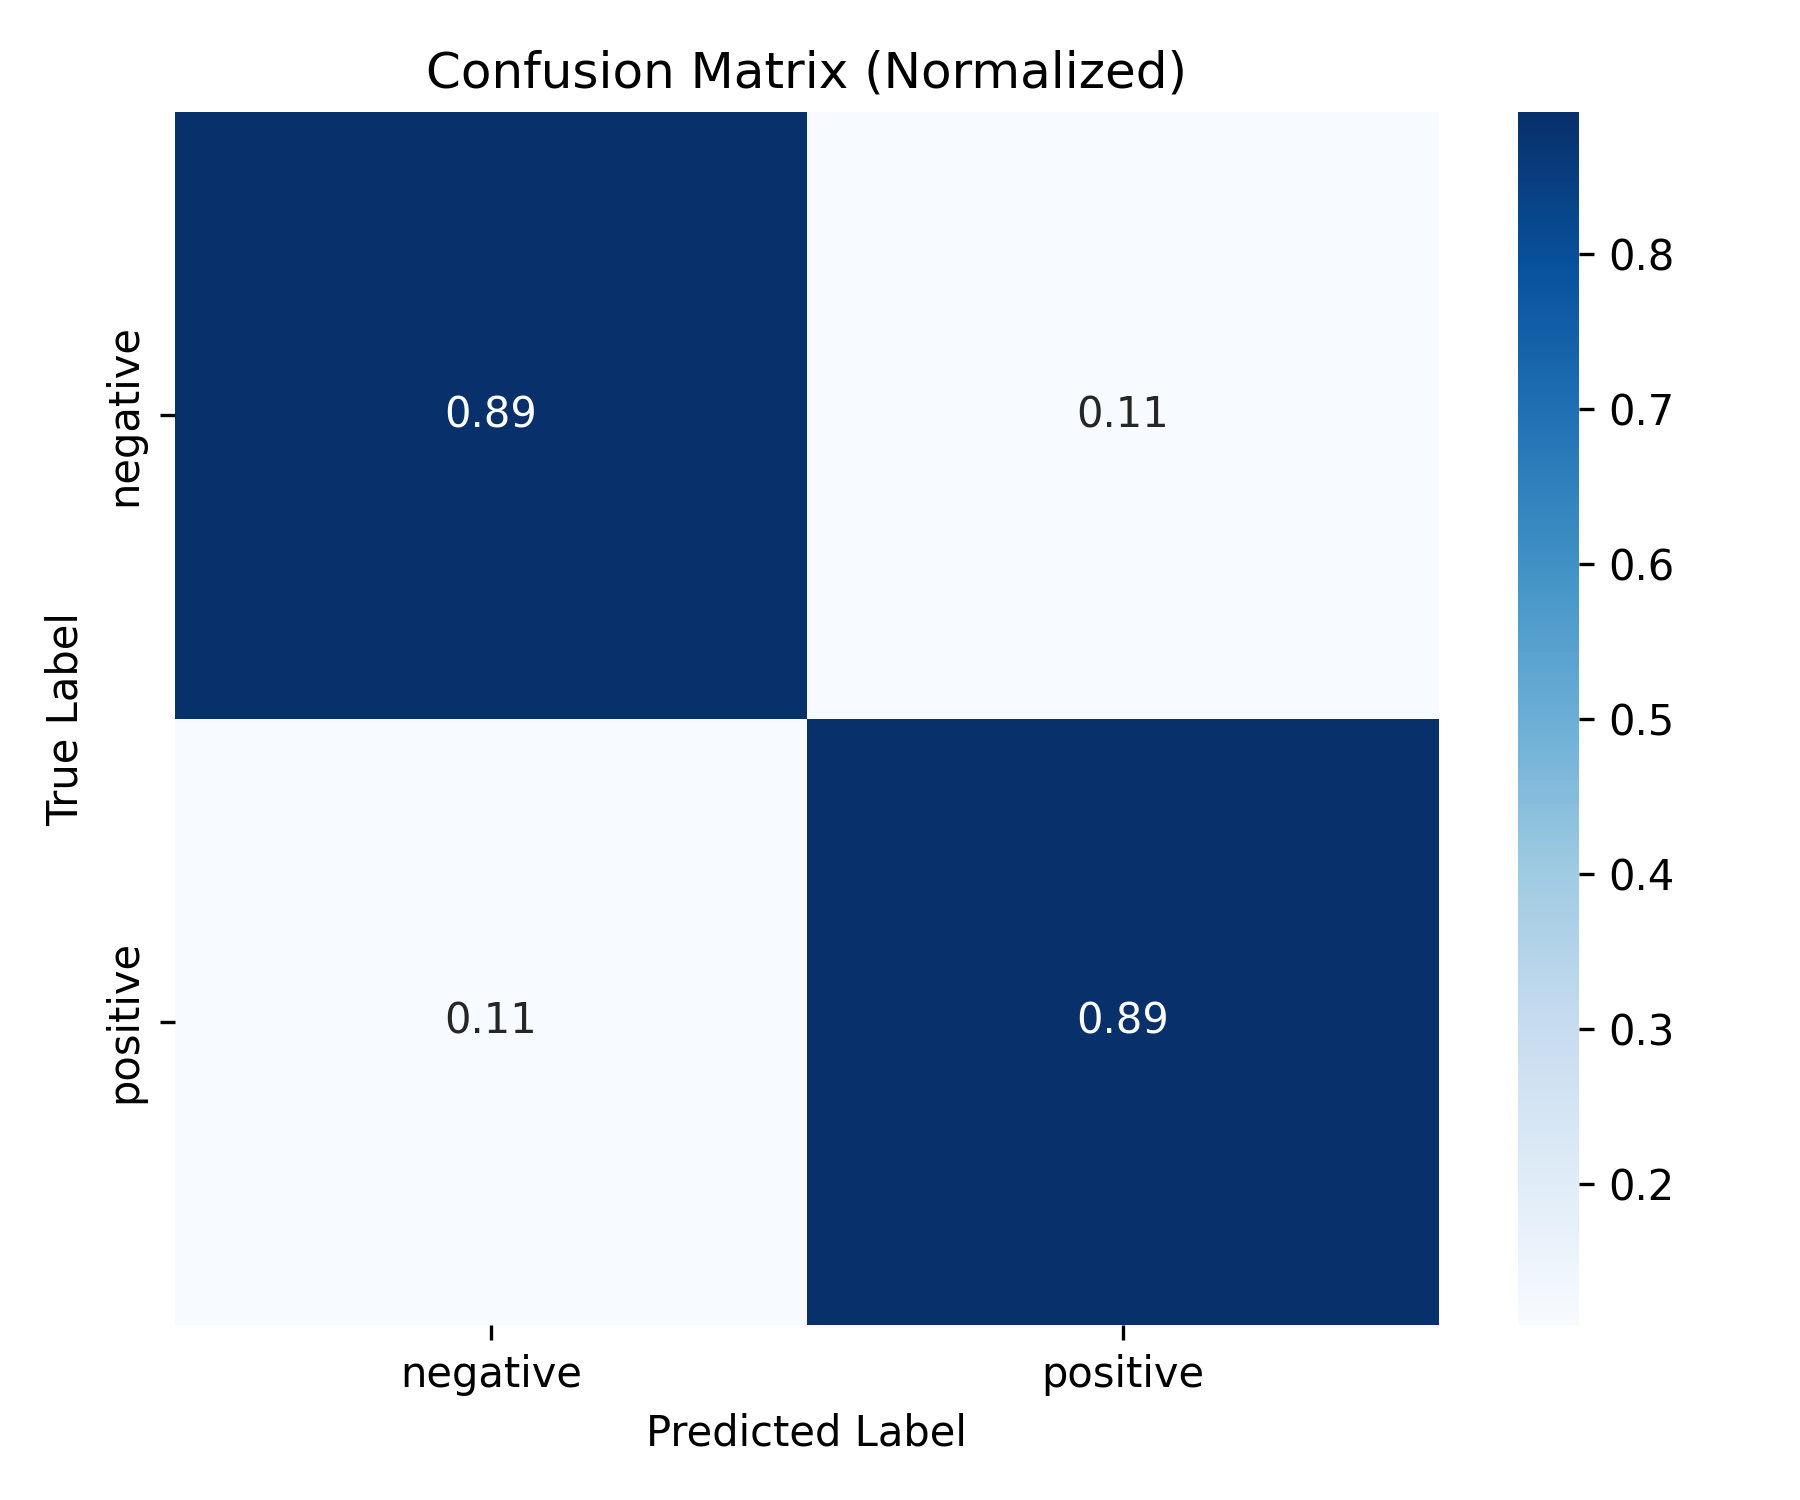
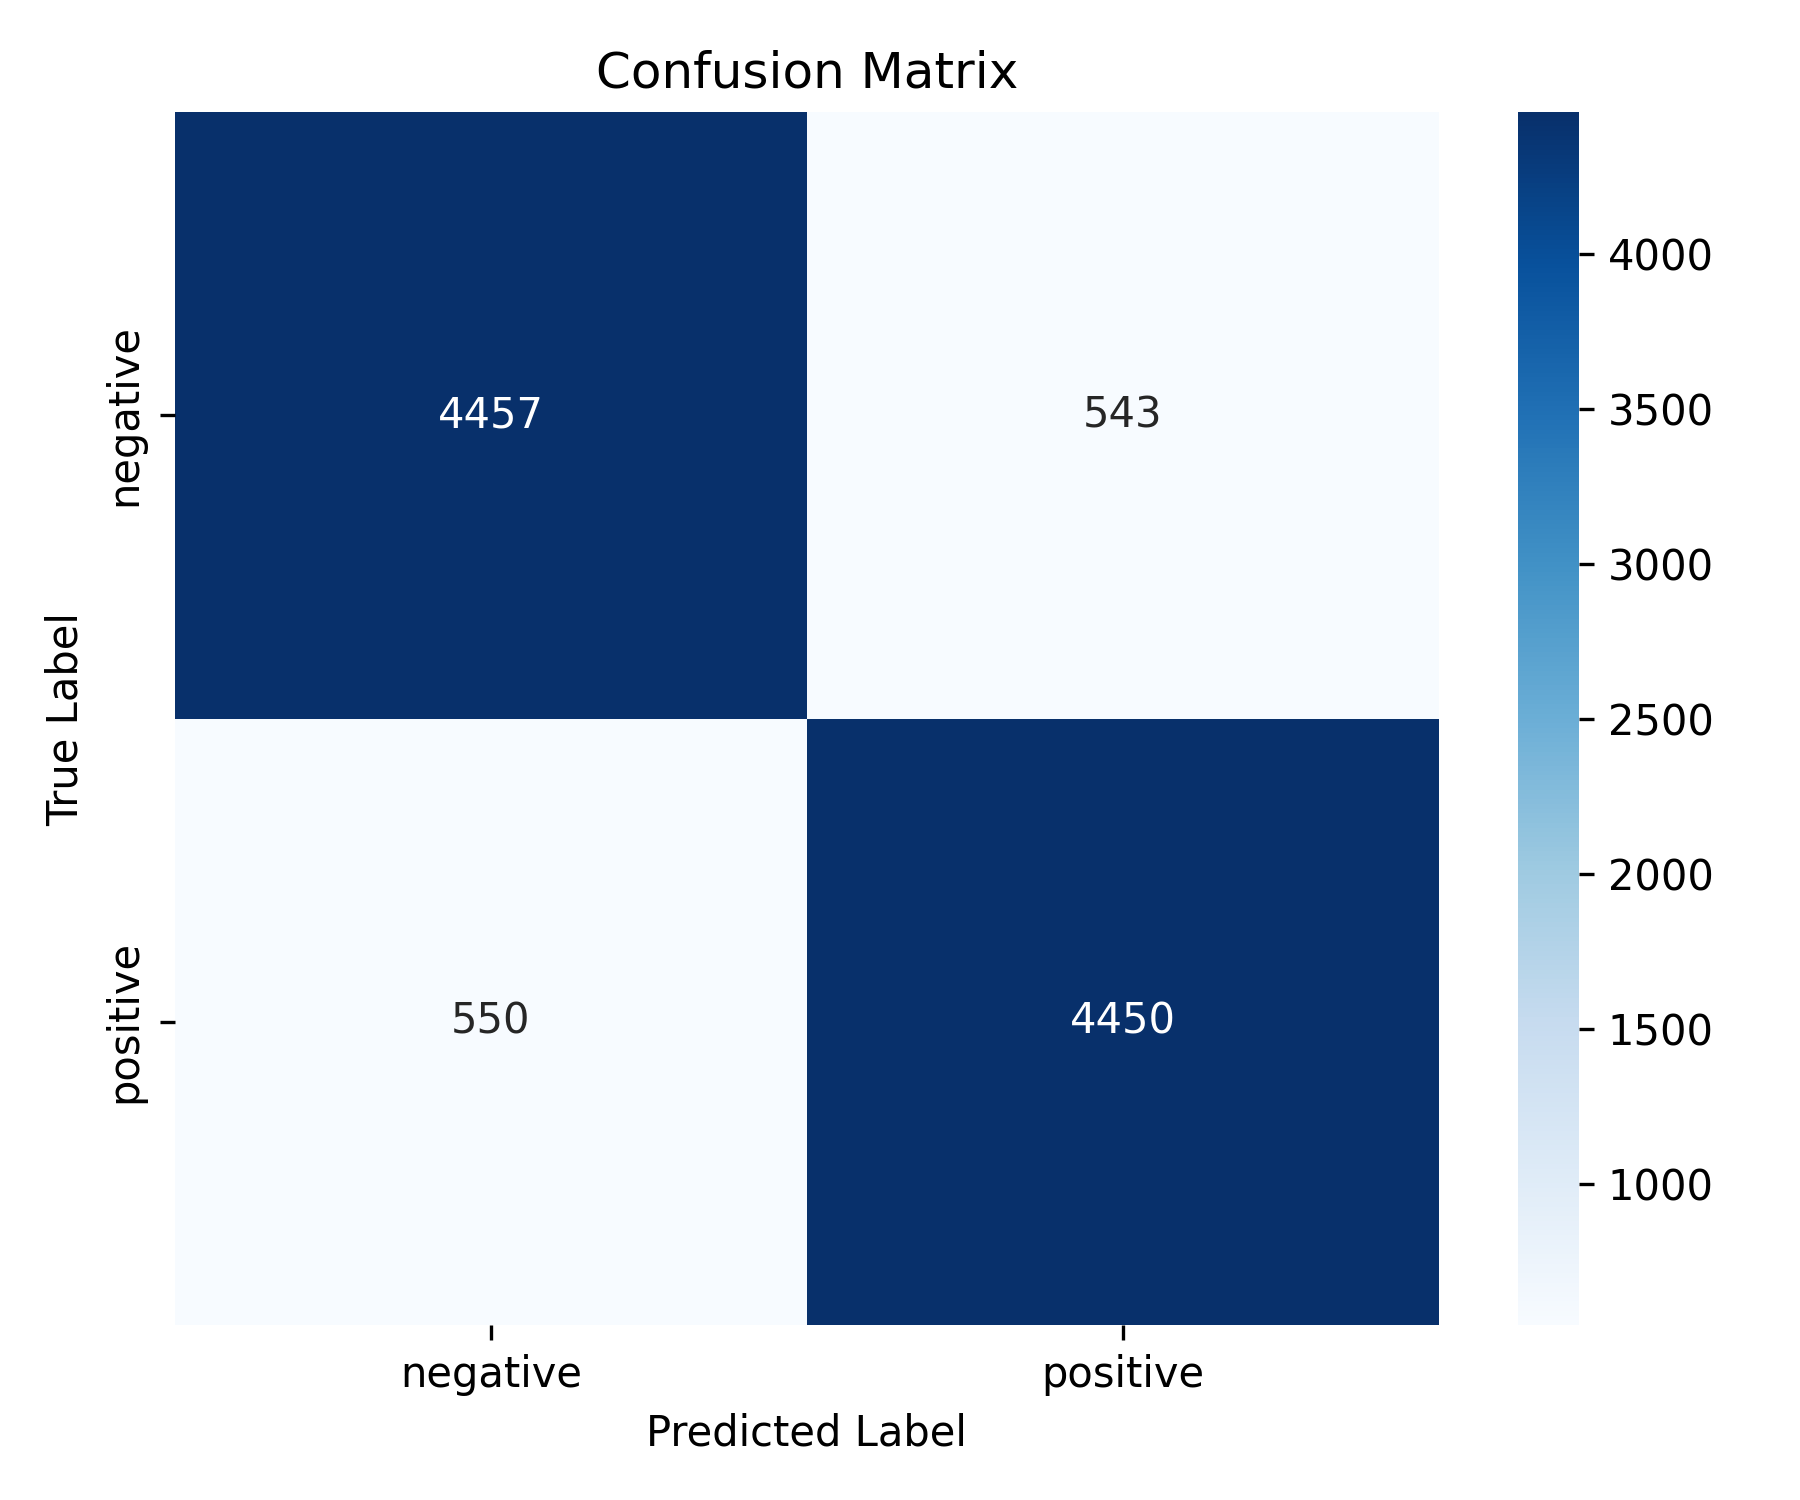
wrapped plots into one big function

diff --git a/main.py b/main.py
@@ -4,6 +4,8 @@ from torch.optim import AdamW
 import torch
 from utils import create_train_test_split, load_fine_tuned_model, load_fine_tuned_model
 from plotting import (
+    comparison_plots,
+    multiple_plots,
     plot_confusion_matrix,
     plot_classification_report,
     plot_overall_metrics,
@@ -35,31 +37,8 @@ if __name__ == "__main__":
     # Evaluate
     classification_report, confusion_matrix = model_evaluation(model=fine_tuned_model, test_df=test_df, tokenizer=tokenizer, device=device)
 
-    CLASS_NAMES = ["negative", "positive"]
-    subdir = "baseline"
-    # Confusion matrix
-    plot_confusion_matrix(
-        confusion_matrix, 
-        CLASS_NAMES,
-        subdir=subdir
-    )
-
-    plot_confusion_matrix(
-        confusion_matrix, 
-        CLASS_NAMES, 
-        normalize=True,
-        subdir=subdir
-    )
-
-    # Classification report metrics
-    plot_classification_report(
-        classification_report, 
-        CLASS_NAMES,
-        subdir=subdir
-    )
-
-    # Overall performance metrics
-    plot_overall_metrics(classification_report, subdir=subdir)
+    # Plot the baseline results and save them in "plots/baseline/" directory
+    multiple_plots(subdir="baseline", cm=confusion_matrix, classification_report=classification_report)
 
     # Reduce dataset for attribution calculations
     reduced_df, _ = train_test_split(
@@ -88,16 +67,16 @@ if __name__ == "__main__":
     ]
 
     # Fine-tune again with explanation-based loss
-    """ex_model_path = fine_tune_with_explanaitions(train_df, 
-                                 n_steps=500, 
-                                 batch_size=80, 
-                                 epochs=3,
-                                 bullshit_words=bullshit_words,
-                                 checkpoint_every_n_step=5,
-                                 lam=1.0,
-                                 fine_tuned_model_path="model_weights/fine_tuned_bert_with_ex.pth"
-                                )
-    """
+    # ex_model_path = fine_tune_with_explanaitions(train_df, 
+    #                              n_steps=500, 
+    #                              batch_size=80, 
+    #                              epochs=3,
+    #                              bullshit_words=bullshit_words,
+    #                              checkpoint_every_n_step=5,
+    #                              lam=1.0,
+    #                              fine_tuned_model_path="model_weights/fine_tuned_bert_with_ex.pth"
+    #                             )
+    
 
     ex_model_path = "model_weights/fine_tuned_bert_with_ex.pth"
 
@@ -115,57 +94,14 @@ if __name__ == "__main__":
         device=device
     )
 
-    subdir = "with_explanations"
-
-    # Confusion matrix
-    plot_confusion_matrix(
-        ex_confusion_matrix, 
-        CLASS_NAMES,
-        subdir=subdir
-    )
-
-    plot_confusion_matrix(
-        ex_confusion_matrix, 
-        CLASS_NAMES, 
-        subdir=subdir,
-        normalize=True
-    )
-
-    # Classification report metrics
-    plot_classification_report(
-        ex_classification_report, 
-        CLASS_NAMES,
-        subdir=subdir
-    )
-
-    # Overall performance metrics
-    plot_overall_metrics(ex_classification_report, subdir=subdir)
-
-    subdir = "comparisons"
-
-    plot_overall_metrics_comparison(
-        classification_report,
-        ex_classification_report,
-        label_a="Baseline",
-        label_b="With Explanation",
-        subdir=subdir
-    )
-
-    plot_classification_report_comparison(
-        classification_report,
-        ex_classification_report,
-        CLASS_NAMES,
-        label_a="Baseline",
-        label_b="With Explanation",
-        subdir=subdir
-    )
-
-    plot_confusion_matrix_difference(
-        confusion_matrix,
-        ex_confusion_matrix,
-        CLASS_NAMES,
-        subdir=subdir
-    )
+    # Plot the results with explanations and save them in "plots/with_explanations/" directory
+    multiple_plots(subdir="with_explanations", cm=ex_confusion_matrix, classification_report=ex_classification_report)
+ 
+    # Comparison plots between baseline and explanation-based model
+    comparison_plots(subdir="comparison_baseline_explanation", cm_a=confusion_matrix, 
+                     cm_b=ex_confusion_matrix, report_a=classification_report, 
+                     report_b=ex_classification_report, label_a="Baseline", 
+                     label_b="With Explanation")
 
     # Load model with masking out bullshit words fine-tuning
     #mask_path = fine_tune_loop(train_df=train_df, bullshit_words=bullshit_words, fine_tuned_model_path="model_weights/test_fine_tuned_bert_masking.pth")
@@ -175,30 +111,7 @@ if __name__ == "__main__":
 
     class_report_masked, confus_matrix_masked = model_evaluation(model=model, test_df=test_df, tokenizer=tokenizer, device=device)
 
-    subdir = "masking"
+    # Plot the results with masking and save them in "plots/masking/" directory
+    multiple_plots(subdir="masking", cm=confus_matrix_masked, classification_report=class_report_masked)
 
-    # Confusion matrix
-    plot_confusion_matrix(
-        confus_matrix_masked, 
-        CLASS_NAMES,
-        subdir=subdir
-    )
-
-    plot_confusion_matrix(
-        confus_matrix_masked, 
-        CLASS_NAMES, 
-        subdir=subdir,
-        normalize=True
-    )
-
-    # Classification report metrics
-    plot_classification_report(
-        class_report_masked, 
-        CLASS_NAMES,
-        subdir=subdir
-    )
-
-    # Overall performance metrics
-    plot_overall_metrics(class_report_masked, subdir=subdir)
-    
 

diff --git a/plotting.py b/plotting.py
@@ -4,15 +4,15 @@ import pandas as pd
 import numpy as np
 import os
 
-BASE_DIR = "plots/"#os.path.dirname(os.path.abspath(__file__))
+BASE_DIR = "plots/"
+CLASS_NAMES = ["negative", "positive"]
 
-def plot_confusion_matrix(cm, class_names, subdir, normalize=False):
+def plot_confusion_matrix(cm, subdir, normalize=False):
     """
     Plots a confusion matrix heatmap.
 
     Args:
         cm (np.ndarray): Confusion matrix
-        class_names (list): List of class labels
         normalize (bool): Whether to normalize the matrix
     """
     if normalize:
@@ -24,18 +24,19 @@ def plot_confusion_matrix(cm, class_names, subdir, normalize=False):
         annot=True,
         fmt=".2f" if normalize else "d",
         cmap="Blues",
-        xticklabels=class_names,
-        yticklabels=class_names
+        xticklabels=CLASS_NAMES,
+        yticklabels=CLASS_NAMES
     )
     plt.xlabel("Predicted Label")
     plt.ylabel("True Label")
     plt.title("Confusion Matrix" + (" (Normalized)" if normalize else ""))
     plt.tight_layout()
-    plt.savefig(os.path.join(BASE_DIR, subdir, "confusion_matrix.png"), dpi=300)
+    title = "confusion_matrix_normalized.png" if normalize else "confusion_matrix.png"
+    plt.savefig(os.path.join(BASE_DIR, subdir, title), dpi=300)
     plt.close()
 
 
-def plot_classification_report(report_dict, class_names, subdir):
+def plot_classification_report(report_dict, subdir):
     """
     Plots precision, recall and f1-score per class.
 
@@ -44,7 +45,7 @@ def plot_classification_report(report_dict, class_names, subdir):
         class_names (list): Class labels
     """
     df = pd.DataFrame(report_dict).transpose()
-    metrics_df = df.loc[class_names][["precision", "recall", "f1-score"]]
+    metrics_df = df.loc[CLASS_NAMES][["precision", "recall", "f1-score"]]
 
     combined = metrics_df.T  
 
@@ -53,7 +54,7 @@ def plot_classification_report(report_dict, class_names, subdir):
     bar_width = 0.35
     x = np.arange(len(combined.index)) 
 
-    for i, cls in enumerate(class_names):
+    for i, cls in enumerate(CLASS_NAMES):
         plt.bar(x + i*bar_width, combined[cls], width=bar_width, label=cls)
 
     ymin = max(0, combined.min().min() - 0.02)
@@ -190,7 +191,70 @@ def plot_confusion_matrix_difference(cm_a, cm_b, class_names, subdir):
     )
     plt.xlabel("Predicted Label")
     plt.ylabel("True Label")
-    plt.title("Confusion Matrix Difference (Explanation − Baseline)")
+    plt.title("Confusion Matrix Difference (Explanation - Baseline)")
     plt.tight_layout()
     plt.savefig(os.path.join(BASE_DIR, subdir, "confusion_matrix_difference.png"), dpi=300)
     plt.close()
+
+def multiple_plots(subdir, cm, classification_report, conf_mat=True, conf_mat_norm=True, class_report=True, overall_metrics=True):
+    """
+    Executes multiple plotting functions and saves plots in specified subdirectory.
+    On default all plot types are generated.
+
+    :param subdir: Subdirectory within BASE_DIR to save plots.
+    :param cm: Confusion matrix (np.ndarray).
+    :param classification_report: Classification report dictionary.
+    :param conf_mat: Whether to plot confusion matrix.
+    :param conf_mat_norm: Whether to plot normalized confusion matrix.
+    :param class_report: Whether to plot classification report.
+    :param overall_metrics: Whether to plot overall metrics.
+    """
+
+    path = os.path.join(BASE_DIR, subdir)
+    os.makedirs(path, exist_ok=True)
+
+    if conf_mat and cm is not None:
+        plot_confusion_matrix(cm, subdir, normalize=False)
+    
+    if conf_mat_norm and cm is not None:
+        plot_confusion_matrix(cm, subdir, normalize=True)
+        
+    if class_report and classification_report is not None:
+        plot_classification_report(classification_report, subdir)
+        
+    if overall_metrics and classification_report is not None:
+        plot_overall_metrics(classification_report, subdir)
+
+    print(f"All plots saved into '{path}' directory.")
+
+def comparison_plots(subdir, cm_a, cm_b, report_a, report_b, label_a, label_b, overall_metrics=True, class_report=True, conf_mat_diff=True):
+    """
+    Executes multiple comparison plotting functions and saves plots in specified subdirectory.
+    On default all plot types are generated.
+
+
+    :param subdir: Subdirectory within BASE_DIR to save plots.
+    :param cm_a: Confusion matrix of model A (np.ndarray).
+    :param cm_b: Confusion matrix of model B (np.ndarray).
+    :param report_a: Classification report dictionary of model A.
+    :param report_b: Classification report dictionary of model B.
+    :param label_a: Label for model A.
+    :param label_b: Label for model B.
+    :param overall_metrics: Whether to plot overall metrics comparison.
+    :param class_report: Whether to plot classification report comparison.
+    :param conf_mat_diff: Whether to plot confusion matrix difference.
+    """
+
+    path = os.path.join(BASE_DIR, subdir)
+    os.makedirs(path, exist_ok=True)
+
+    if overall_metrics:
+        plot_overall_metrics_comparison(report_a, report_b, subdir, label_a, label_b)
+
+    if class_report:
+        plot_classification_report_comparison(report_a, report_b, CLASS_NAMES, subdir, label_a, label_b)
+
+    if conf_mat_diff:
+        plot_confusion_matrix_difference(cm_a, cm_b, CLASS_NAMES, subdir)
+
+    print(f"All comparison plots saved into '{path}' directory.")
